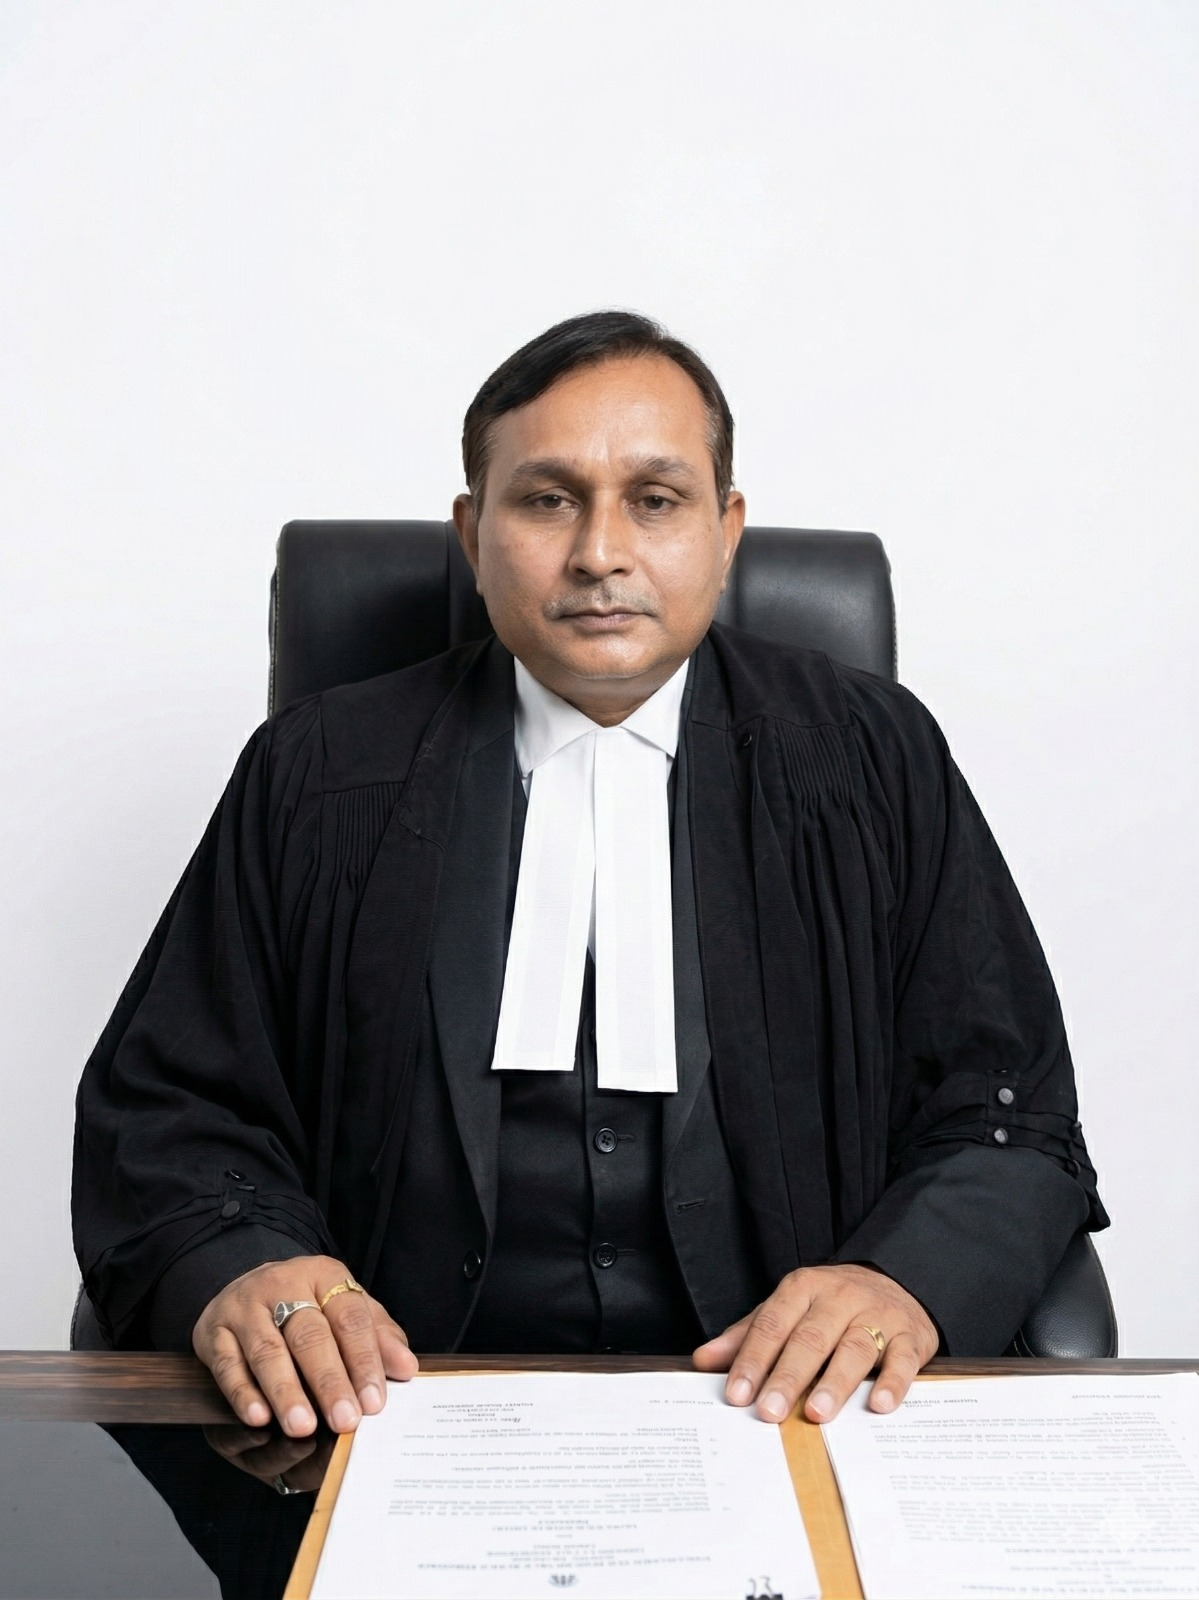
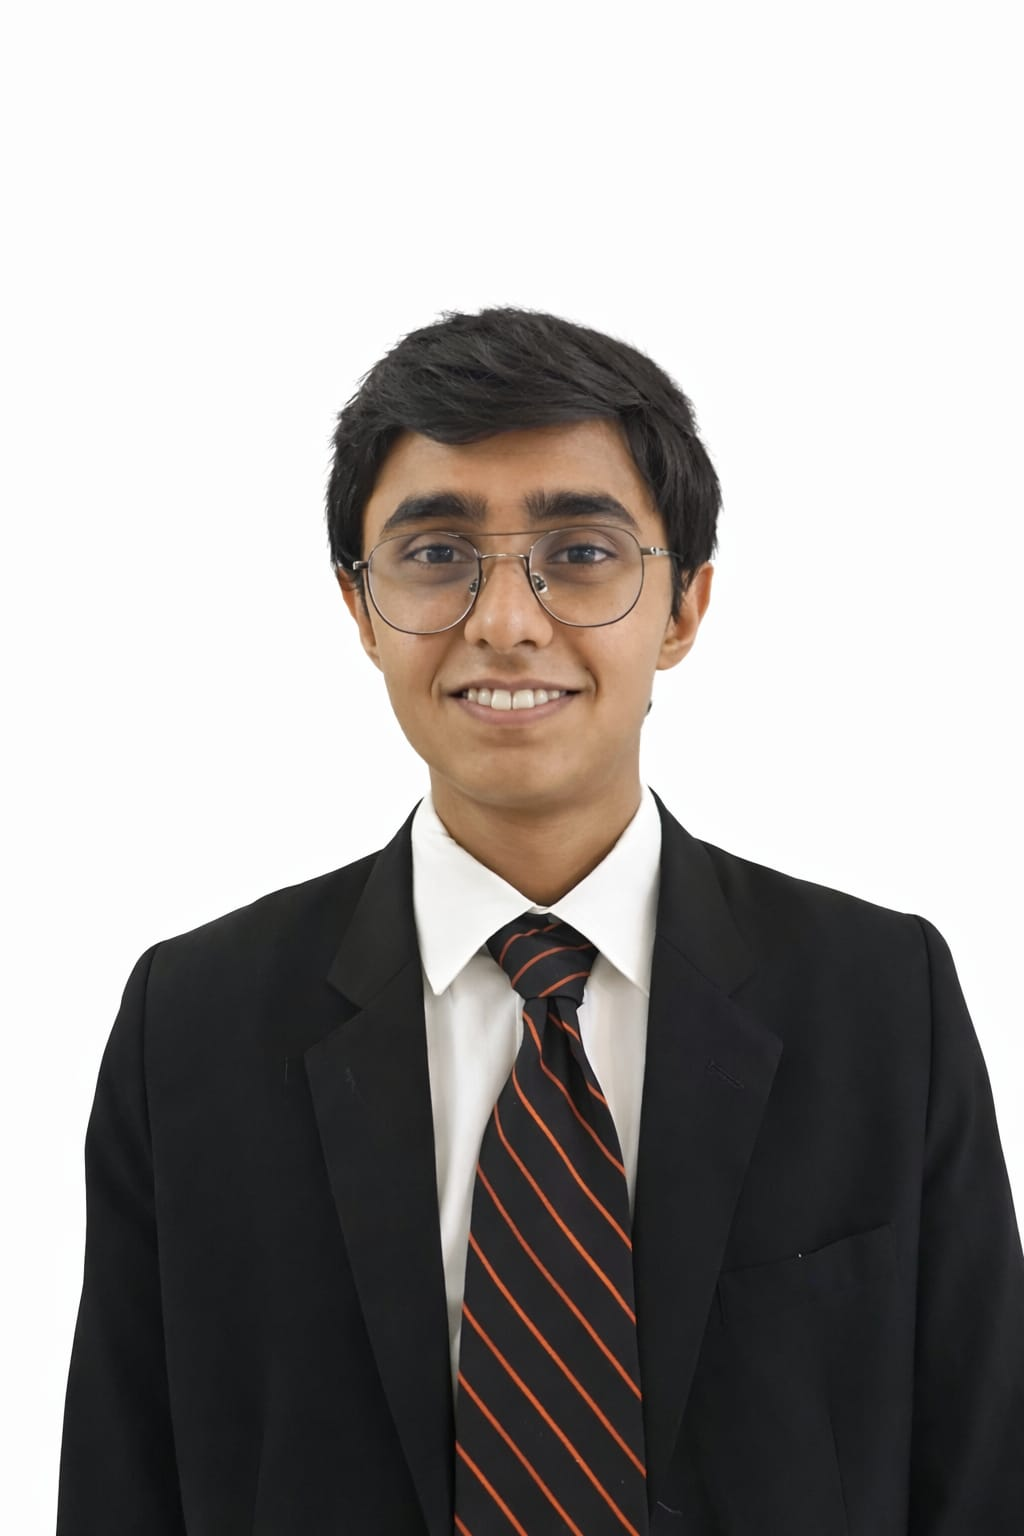
push

diff --git a/client/law-firm/components/WhatsAppButton.jsx b/client/law-firm/components/WhatsAppButton.jsx
@@ -1,0 +1,77 @@
+"use client";
+import {
+  SendHorizontal,
+  X,
+} from "lucide-react";
+import { FaWhatsapp } from "react-icons/fa";
+import { useState } from "react";
+
+const WhatsAppButton = () => {
+  const phoneNumber = process.env.NEXT_PUBLIC_WHATSAPP_NUMBER || 8090023364;
+  const [openChat, setOpenChat] = useState(false);
+  const [message, setMessage] = useState("");
+
+  if (!phoneNumber) return null;
+
+  const handleSend = () => {
+    if (!message.trim()) return;
+    const encodedMessage = encodeURIComponent(message.trim());
+    const url = `https://wa.me/${phoneNumber}?text=${encodedMessage}`;
+    window.open(url, "_blank");
+    setMessage("");
+    setOpenChat(false); // Optional: close chat after sending
+  };
+
+  return (
+    <>
+      {/* Chat Box */}
+      {openChat && (
+        <div className=" w-80 md:w-100 h-60 overflow-hidden flex-col flex fixed border border-indigo-500 right-2 bottom-2 rounded-4xl shadow-lg z-50">
+          {/* Header */}
+          <div className="bg-indigo-500 px-6 py-4 flex justify-between items-center text-white">
+            <h2 className="text-sm">
+              Powered by{" "}
+              <span className="text-xs ml-1 font-light">WebJuncture</span>
+            </h2>
+            <X className="cursor-pointer" onClick={() => setOpenChat(false)} />
+          </div>
+
+          {/* Chat Area */}
+          <div className="p-2 bg-indigo-50 flex flex-col flex-grow h-full">
+            <h2 className="px-4 py-2 rounded-full bg-indigo-200 text-indigo-900 w-fit mb-4 text-sm font-medium">
+              How can we help you?
+            </h2>
+
+            {/* Message Input */}
+            <div className="bg-white p-2 rounded-3xl mt-auto flex items-center gap-2 shadow-inner">
+              <input
+                type="text"
+                value={message}
+                onChange={(e) => setMessage(e.target.value)}
+                placeholder="Type a message"
+                className="flex-grow px-3 py-2 rounded-full outline-none text-gray-700 bg-gray-100 placeholder:text-gray-400 text-sm"
+              />
+              <SendHorizontal
+                size={22}
+                className="text-indigo-500 hover:text-indigo-600 cursor-pointer"
+                onClick={handleSend}
+              />
+            </div>
+          </div>
+        </div>
+      )}
+
+      {/* WhatsApp Floating Button */}
+    {!openChat && (
+  <button
+    onClick={() => setOpenChat((prev) => !prev)}
+    className="fixed bottom-5 cursor-pointer right-5 z-50 bg-green-500 hover:bg-green-600 text-white rounded-full p-4 shadow-lg transition hover:shake"
+  >
+    <FaWhatsapp className="text-2xl" />
+  </button>
+)}
+    </>
+  );
+};
+
+export default WhatsAppButton;

diff --git a/client/law-firm/components/TeamSection.jsx b/client/law-firm/components/TeamSection.jsx
@@ -4,38 +4,26 @@ const TEAM = [
   {
     name: "Adv. Anurag Narain",
     role: "Founder & Head of Chambers",
-    image: "/images/team/Nachiketa-Narain.jpeg", // ✅ UPDATED PHOTO
+    image: "/images/team/Anurag-Narain.jpeg", // 🔁 correct image lagana
     position: "center 20%",
     highlight: true,
   },
   {
-    name: "Adv. Chitrangda Narain",
+    name: "Adv. Shailendra Mishra",
     role: "Associate",
-    image: "/images/team/Chitrangda-Narain.jpeg",
+    image: "/images/team/shailendra.jpg",
     position: "top",
   },
   {
-    name: "Adv. Nachiketa Narain", // ✅ NEW ADD
-    role: "Lawyer",
-    image: "/images/team/Nachiketa-Nar.jpeg", // 🔁 image add kar lena
+    name: "Adv. Sudhanshu Tripathi",
+    role: "Associate",
+    image: "/images/team/sudhanshu.jpg", // 🔁 add image
     position: "top",
   },
   {
-    name: "Adv. Shobhit Verma",
+    name: "Adv. Pawan Kumar Verma",
     role: "Associate",
-    image: "/images/team/adv-Shobhit-Verma.jpeg",
-    position: "top",
-  },
-  {
-    name: "Adv. Vartika Pandey",
-    role: "Associate",
-    image: "/images/team/Vartika-Pandey.jpeg",
-    position: "top",
-  },
-  {
-    name: "Adv. Prashant Chaurasia",
-    role: "Associate",
-    image: "/images/team/prashant.jpg",
+    image: "/images/team/Pawan-Kumar-Verma.jpeg", // 🔁 add image
     position: "top",
   },
   {
@@ -45,10 +33,34 @@ const TEAM = [
     position: "top",
   },
   {
-    name: "Adv. Shailendra Mishra",
+    name: "Adv. Prashant Chaurasia",
     role: "Associate",
-    image: "/images/team/shailendra.jpg",
+    image: "/images/team/prashant.jpg",
     position: "top",
+  },
+  {
+    name: "Adv. Vartika Pandey",
+    role: "Associate",
+    image: "/images/team/Vartika-Pandey.jpeg",
+    position: "top",
+  },
+  {
+    name: "Adv. Chitrangda Narain",
+    role: "Associate",
+    image: "/images/team/Chitrangda-Narain.jpeg",
+    position: "top",
+  },
+  {
+    name: "Adv. Shobhit Verma",
+    role: "Associate",
+    image: "/images/team/adv-Shobhit-Verma.jpeg",
+    position: "top",
+  },
+  {
+    name: " Nachiketa Narain",
+    role: "Lawyer",
+    image: "/images/team/Nachiketa-Narain.jpeg",
+    position: "bottom",
   },
 ];
 

diff --git a/client/law-firm/app/layout.js b/client/law-firm/app/layout.js
@@ -1,5 +1,6 @@
 import "./globals.css";
 import Navbar from "@/components/Navbar";
+import WhatsAppButton from "@/components/WhatsAppButton";
 // import Footer from "@/components/Footer";
 
 import { Playfair_Display, Inter } from "next/font/google";
@@ -30,6 +31,7 @@ export default function RootLayout({ children }) {
       <body
         className={`${heading.variable} ${body.variable} font-body bg-white text-gray-900`}
       >
+        <WhatsAppButton/>
         <Navbar />
         <main>{children}</main>
         {/* <Footer /> */}
